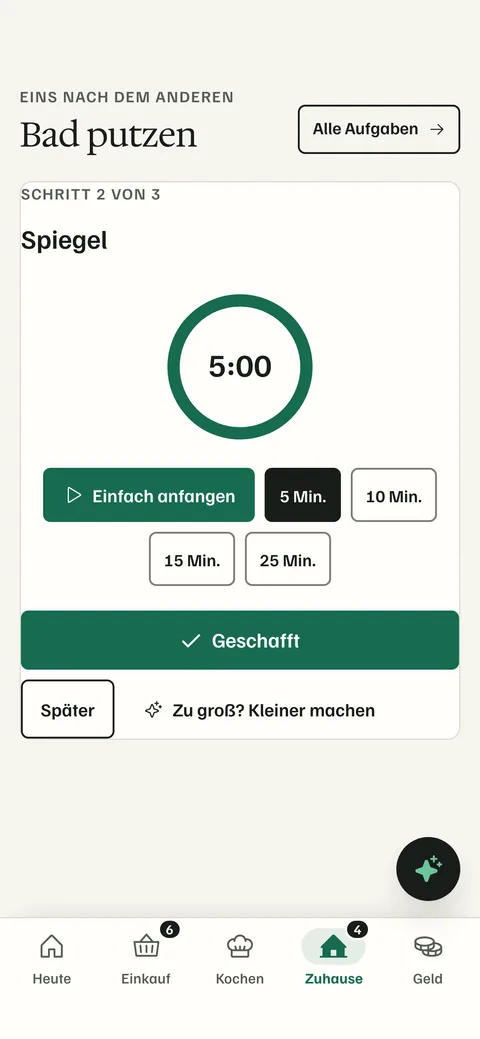
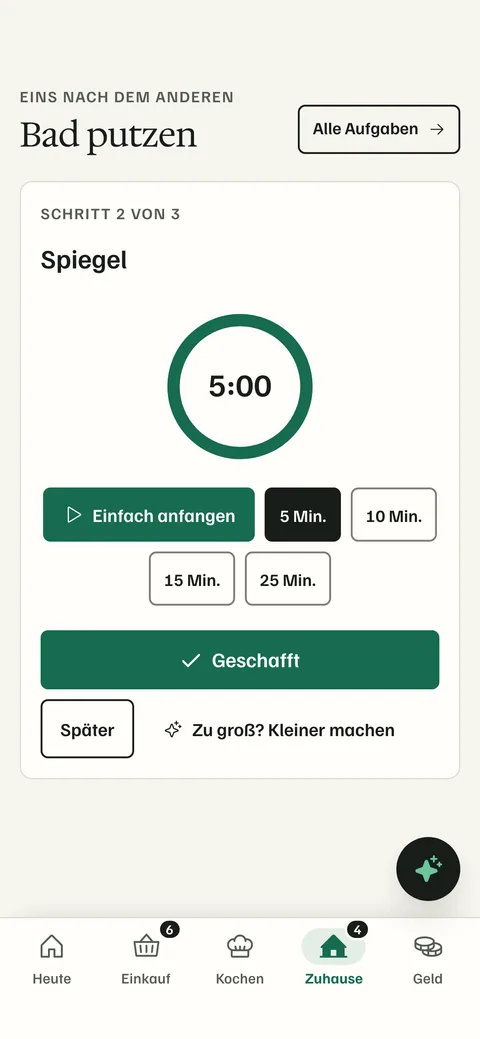
Web: padding in the new cards, wrapping answer chips; ui-audit finds text on the border
- .card.stack, .loadcard and .ratgeber-card get 16 px inner padding (text
  touched the card border in Fokus, Denkarbeit-Check, Extras, Sterne).
- Denkarbeit answers wrap inside the card instead of bleeding off its edge;
  "So hilft ToHuus" links left-aligned; teaser text in Aufgaben stays in
  its row.
- scripts/ui-audit.mjs: new finding `tight` (text < 6 px from the border of
  its box); audit visits /fokus, /denkarbeit, /rueckblick.
- Website screenshots for Fokus and Denkarbeit-Check renewed (de, en).

Claude-Session: https://claude.ai/code/session_01JiCpWFdknKAgdRL9Z1ENTb

Changed region(s): [[0.0312, 0.2772, 0.9688, 0.7392], [0.0312, 0.1848, 0.375, 0.2772]]

diff --git a/web/src/styles.css b/web/src/styles.css
@@ -10837,6 +10837,25 @@ html.gentle .badge.empty {
 }
 
 /* Denkarbeit-Check (pages/LoadCards.tsx) */
+/* cards with text in them (not around a list) keep their text off the border – 15 Oct 2026 */
+.card.stack,
+.loadcard,
+.ratgeber-card {
+  padding: 16px;
+}
+/* "So hilft ToHuus …" reads like a sentence: left-aligned, the arrow right after it */
+.loadcard .linkish,
+.loadcards-help .linkish {
+  text-align: left;
+  justify-content: flex-start;
+}
+/* the four answers wrap inside the card instead of running off its edge */
+.loadcard .chips {
+  flex-wrap: wrap;
+  overflow: visible;
+  margin: 0;
+  padding: 0;
+}
 .loadcard-text {
   font-size: 1.08rem;
   font-weight: 600;
@@ -10849,6 +10868,14 @@ html.gentle .badge.empty {
 }
 .loadcards-help li {
   margin: 4px 0;
+}
+.loadcards-teaser .grow {
+  display: flex;
+  flex-direction: column;
+  min-width: 0;
+}
+.loadcards-teaser .sub {
+  white-space: normal;
 }
 .loadcards-teaser {
   gap: 12px;

diff --git a/CHANGELOG.md b/CHANGELOG.md
@@ -4,6 +4,7 @@ ToHuus Hub is developed in waves: each wave adds a set of feature areas, then ge
 
 ## Unreleased
 
+- Web layout: text no longer touches the border in the new cards. Fokus, the Denkarbeit-Check, Extras, Sterne and Ratgeber cards have inner padding, the Denkarbeit answers wrap inside the card, and the teaser text in Aufgaben stays in its row. `scripts/ui-audit.mjs` reports this as `tight`, and the audit now visits `/fokus`, `/denkarbeit` and `/rueckblick`. The website screenshots are renewed.
 - Geld: the month's purchases right on the Geld page ("Einkäufe", newest first) – tap one for its items, prices and who it was for (receipt) or the expense form (web and iPhone). `purchases` in `GET /api/money/overview`.
 - Rückblick "Euer Jahr to Huus" (docs/review.md): the household's year in a few cards – bought, planned, cooked, done, used up, spent – as "wir", no names, no ranking, nothing private, no money in gentle mode. Built but off: needs `YEAR_REVIEW=on` or the back office switch; then on Heute from 1 December to 15 January, page `/rueckblick` (web and iPhone). `GET /api/review`.
 - Web offline queue: queued list changes carry the account they were made in (`scope` in `GET /api/me`) and are only replayed for it; `POST /api/shop/sync` answers 409 for another account's queue. Before, a queue left from one account could be replayed after signing in to another household.

diff --git a/docs/ui-audit.md b/docs/ui-audit.md
@@ -42,6 +42,7 @@ so the dark run follows the browser's colour scheme.
 | `offscreen` | something reaches past the left/right screen edge (not inside a scroll row, not cut by a clipping parent), or the page scrolls sideways |
 | `icon-overlap` | text drawn on an icon inside the same button/row, or a count badge covering more than a corner of its icon |
 | `wrap-under` | a button label that continues underneath its icon |
+| `tight` | text closer than 6 px to the border of the box it sits in, such as a card or chip without padding. Full-width bands, small discs under 48 px and text cut with „…“ are skipped |
 | `covered` | at the end of the page a control is still under the floating "Sprechen" button or the tab bar |
 | `not-reached` | a sheet could not be opened (selector changed, or the demo has nothing to open – e.g. no planned meal) |
 
